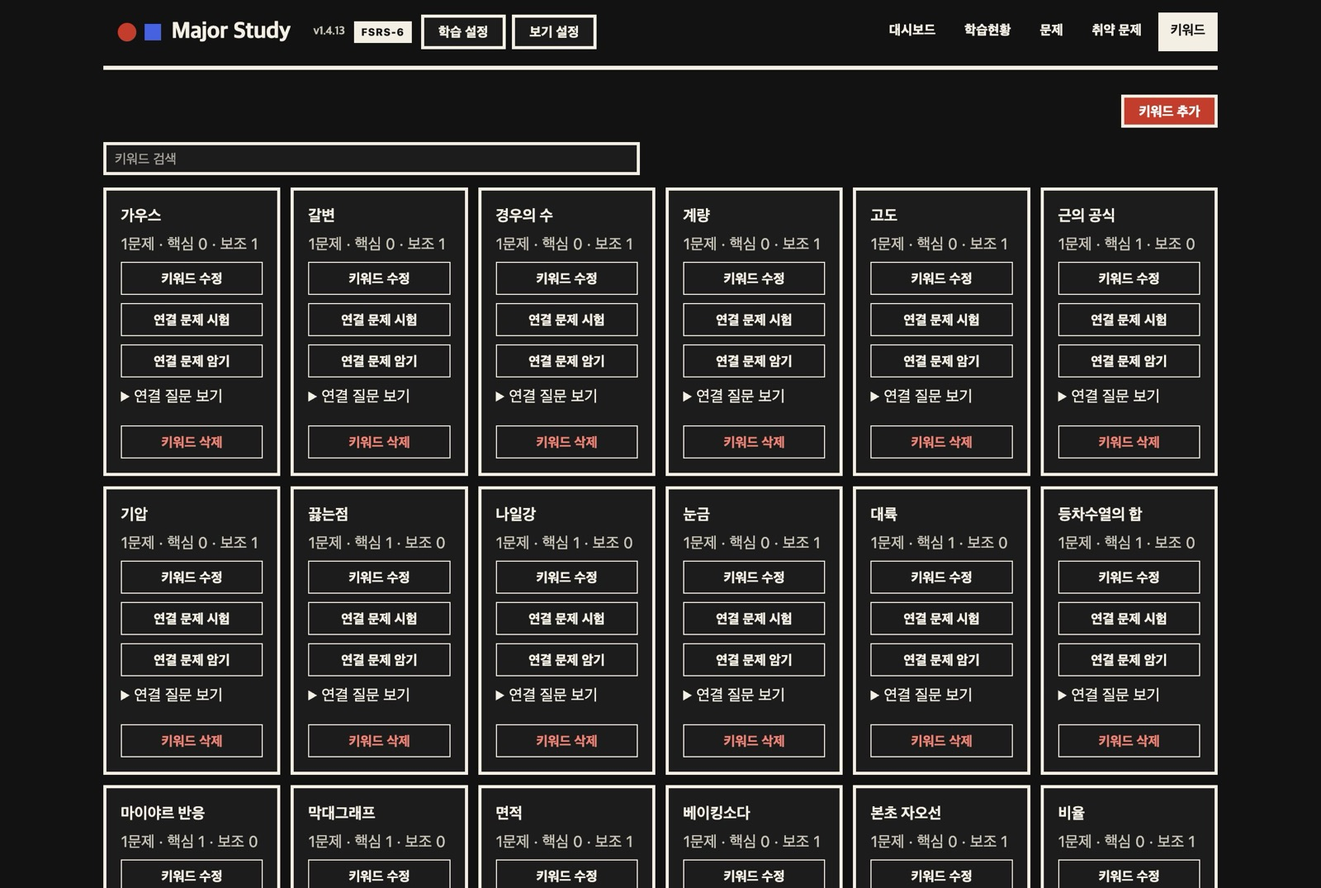
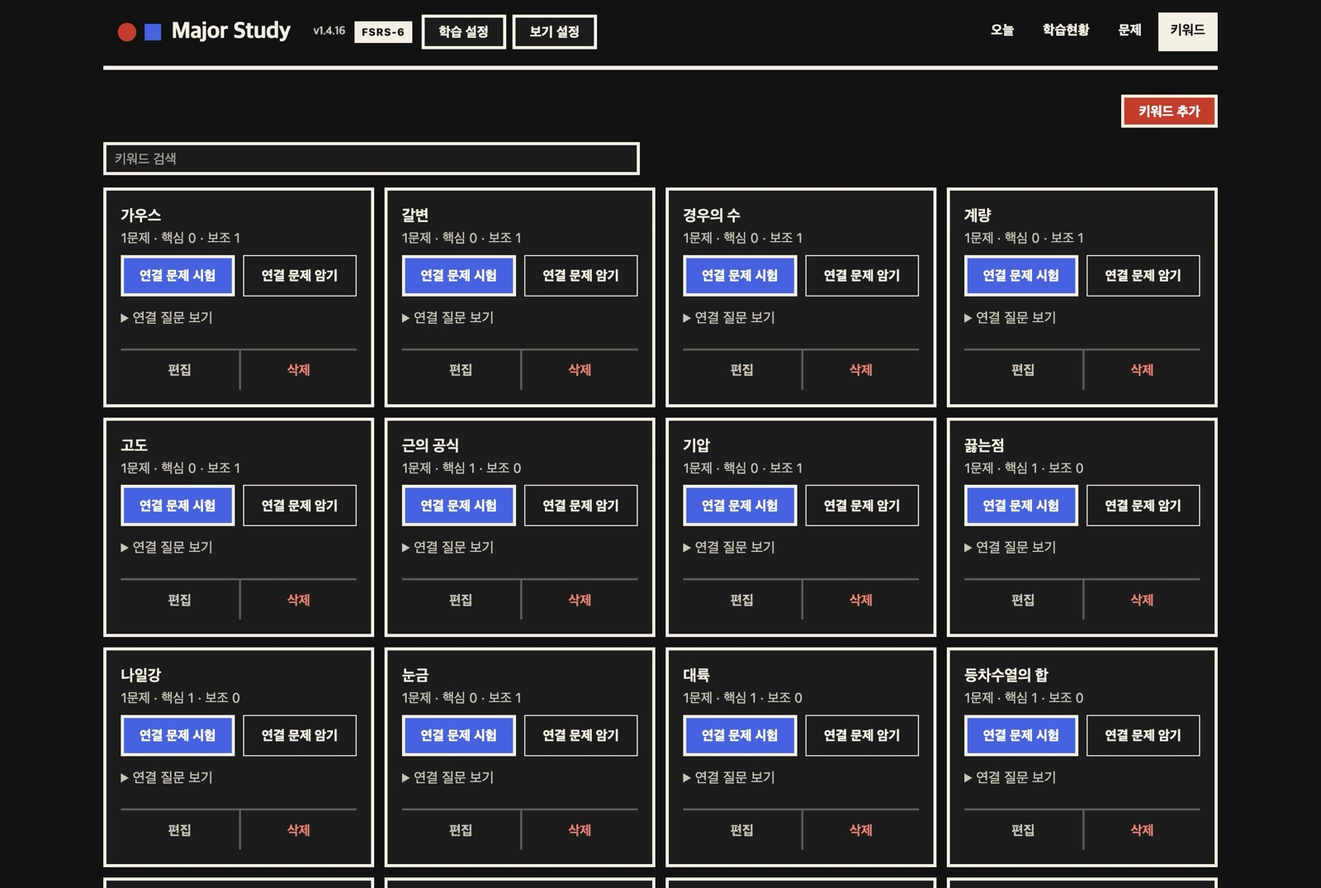
release: MIA Study 1.4.16
Re-layout of the tabs (오늘, 학습현황, 문제, 키워드), the question list with
a side detail panel, and the study screen. Homepage screenshots and docs are
updated for the new layout. main.js and styles.css change; storage format and
algorithm are unchanged.

Changed region(s): [[0.0625, 0.2149, 0.9375, 1.0], [0.6875, 0.0307, 0.8438, 0.0614], [0.2812, 0.0307, 0.4375, 0.0614]]

diff --git a/docs/index.html b/docs/index.html
@@ -5,9 +5,9 @@
 <meta name="viewport" content="width=device-width,initial-scale=1">
 <meta name="color-scheme" content="light dark">
 <title>MIA Study · Obsidian 전공 공부 플러그인</title>
-<meta name="description" content="Obsidian 안에서 전공 질문을 모으고, 키워드로 연결하고, FSRS-6로 복습하는 플러그인. 정식 1.4.15 다운로드와 설치 안내.">
+<meta name="description" content="Obsidian 안에서 전공 질문을 모으고, 키워드로 연결하고, FSRS-6로 복습하는 플러그인. 정식 1.4.16 다운로드와 설치 안내.">
 <meta property="og:title" content="MIA Study · Obsidian 전공 공부 플러그인">
-<meta property="og:description" content="질문·키워드·FSRS-6 복습을 Obsidian 안에서. 정식 1.4.15.">
+<meta property="og:description" content="질문·키워드·FSRS-6 복습을 Obsidian 안에서. 정식 1.4.16.">
 <meta property="og:image" content="https://kimchi-kang.github.io/mia-study-obsidian/assets/screens/desktop-dashboard.jpg">
 <meta property="og:type" content="website">
 <link rel="preconnect" href="https://fonts.googleapis.com">
@@ -279,11 +279,11 @@ footer .fm .t{background:var(--yellow);clip-path:polygon(50% 0,100% 100%,0 100%)
   <div class="wrap">
     <div class="hero-grid">
       <div>
-        <span class="ver">정식 1.4.15</span>
+        <span class="ver">정식 1.4.16</span>
         <h1>질문을 모으고,<br><em>잊기 전에</em><br>다시 꺼낸다.</h1>
         <p class="lead">Obsidian 안에서 과목·질문·키워드를 폼으로 관리하고, FSRS-6로 복습 시점을 잡아 주는 공부 플러그인. Markdown을 직접 쓰지 않아도 되고, 문제마다 노트를 만들지도 않습니다. 1.4.13부터 플러그인 화면도 이 페이지와 같은 바우하우스 스타일(빨강·노랑·파랑, 두꺼운 테두리, 각진 모서리)입니다.</p>
         <div class="cta">
-          <a class="btn btn-red" href="https://github.com/kimchi-kang/mia-study-obsidian/releases/download/1.4.15/mia-study-1.4.15.zip" download>↓ 1.4.15 다운로드</a>
+          <a class="btn btn-red" href="https://github.com/kimchi-kang/mia-study-obsidian/releases/download/1.4.16/mia-study-1.4.16.zip" download>↓ 1.4.16 다운로드</a>
           <a class="btn btn-line" href="#install">BRAT 설치</a>
         </div>
         <p class="meta"><span>무료 · MIT</span><span>데스크톱·모바일</span><span>Obsidian 1.8.7+</span></p>
@@ -298,7 +298,7 @@ footer .fm .t{background:var(--yellow);clip-path:polygon(50% 0,100% 100%,0 100%)
       </div>
     </div>
     <figure class="frame hero-shot">
-      <img src="assets/screens/desktop-dashboard.jpg" width="1600" height="1075" alt="바우하우스 스타일의 MIA Study 대시보드. 파란 복습 6개·노란 새 문제 6개 타일과 빨간 시험 모드 시작 버튼, 이어하기 카드, 등록 문제 13개·기억 안정 비율·오늘 평가 통계 타일, 과목별 학습 카드가 보인다.">
+      <img src="assets/screens/desktop-dashboard.jpg" width="1600" height="1075" alt="바우하우스 스타일의 MIA Study 오늘 화면. 큰 파란 복습 블록과 노란 새 문제 블록, 빨간 시험 모드 시작 버튼·전체 암기 모드·기록 새로고침이 있는 시작 패널, 이어하기 카드, 등록 문제 13개 등 통계 타일, 취약 문제 띠가 보인다.">
     </figure>
   </div>
 </div>
@@ -309,7 +309,7 @@ footer .fm .t{background:var(--yellow);clip-path:polygon(50% 0,100% 100%,0 100%)
     <div class="steps">
       <div class="step"><span class="n">1</span><h3>과목 추가</h3><p>리본의 뇌 아이콘이나 명령 팔레트의 <code>MIA Study 열기</code>로 시작해 과목을 만듭니다. 과목 폴더와 문제은행 노트가 자동으로 생깁니다.</p></div>
       <div class="step"><span class="n">2</span><h3>질문 추가</h3><p>과목·질문·정답·유형과 핵심·보조 키워드, 각 키워드의 의미를 폼에 입력합니다. 키워드 의미 노트도 함께 만들어집니다.</p></div>
-      <div class="step"><span class="n">3</span><h3>시험 시작</h3><p>대시보드의 <strong>시험 모드 시작</strong>을 누르면 오늘 복습할 문제와 새 문제가 나옵니다. 평가할 때마다 다음 복습일이 정해집니다.</p></div>
+      <div class="step"><span class="n">3</span><h3>시험 시작</h3><p><strong>오늘</strong> 화면의 <strong>시험 모드 시작</strong>을 누르면 오늘 복습할 문제와 새 문제가 나옵니다. 평가할 때마다 다음 복습일이 정해집니다.</p></div>
     </div>
     <p class="defaults">기본값: 하루 새 문제 20개 · 복습 200회 · 하루 시작 오전 4시 · 학습 단계 1분 → 10분 · 목표 기억률 90%</p>
   </div>
@@ -338,7 +338,7 @@ footer .fm .t{background:var(--yellow);clip-path:polygon(50% 0,100% 100%,0 100%)
         </ul>
         <p class="keys">Space 정답 · 1–4 평가 · ← → 이동 · U 직전 평가 취소</p>
       </div>
-      <figure class="frame"><img src="assets/screens/desktop-study.jpg" width="1600" height="1075" loading="lazy" alt="시험 모드 학습 화면. 시차 계산 질문 아래 분수 수식이 렌더링된 모범 답안과 빨강·노랑·흰색·파랑의 못 암기·애매·암기·너무 쉬움 평가 버튼이 보인다."></figure>
+      <figure class="frame"><img src="assets/screens/desktop-study.jpg" width="1600" height="1075" loading="lazy" alt="시험 모드 학습 화면. 시차 계산 질문 아래 분수 수식이 렌더링된 모범 답안과, 1–4 키 표시와 다음 간격이 붙은 빨강·노랑·흰색·파랑의 큰 평가 버튼이 보인다."></figure>
     </div>
 
     <div class="feat flip">
@@ -367,7 +367,7 @@ footer .fm .t{background:var(--yellow);clip-path:polygon(50% 0,100% 100%,0 100%)
           <li>질문마다 상세·편집·연결·삭제</li>
         </ul>
       </div>
-      <figure class="frame"><img src="assets/screens/desktop-questions.jpg" width="1600" height="1075" loading="lazy" alt="문제 목록 화면. 수학 기초·요리 과학 예시 질문 13개와 검색창, 과목·유형·상태 필터, 질문마다 학습·상세·편집·연결·삭제 버튼이 보인다."></figure>
+      <figure class="frame"><img src="assets/screens/desktop-questions.jpg" width="1600" height="1075" loading="lazy" alt="문제 목록 화면. 전체 13·오늘 복습 2·학습 전 10·▲ 취약 상태 칩과 검색창·필터, 질문마다 학습·상세·편집·연결 열과 빨간 삭제 글자, 오른쪽 상세 패널 영역이 보인다."></figure>
     </div>
 
     <div class="feat flip">
@@ -381,7 +381,7 @@ footer .fm .t{background:var(--yellow);clip-path:polygon(50% 0,100% 100%,0 100%)
           <li>학습 중 키워드·과목·유형·최근 평가로 관련 문제를 추천해 이어서 출제</li>
         </ul>
       </div>
-      <figure class="frame"><img src="assets/screens/desktop-keywords.jpg" width="1600" height="1075" loading="lazy" alt="키워드 화면. 가우스, 갈변, 경우의 수, 근의 공식, 끓는점, 마이야르 반응 같은 예시 키워드 카드마다 연결 문제 수와 키워드 수정·연결 문제 시험·암기·키워드 삭제 버튼이 보인다."></figure>
+      <figure class="frame"><img src="assets/screens/desktop-keywords.jpg" width="1600" height="1075" loading="lazy" alt="키워드 화면. 가우스, 갈변, 경우의 수, 계량, 고도, 근의 공식 같은 예시 키워드 카드마다 연결 문제 수와 연결 문제 시험·암기·편집·삭제 버튼이 보인다."></figure>
     </div>
 
     <div class="feat">
@@ -391,7 +391,7 @@ footer .fm .t{background:var(--yellow);clip-path:polygon(50% 0,100% 100%,0 100%)
         <p>전체·과목별로 학습 전, 오늘 복습, 기억 안정, 오늘 평가를 한눈에 보고, 숫자를 누르면 해당 문제만 모아 봅니다.</p>
         <ul class="pts">
           <li>최근 평가 분포를 네 가지 색 막대로 표시</li>
-          <li>취약 문제: 못 암기·애매 문제를 복습 지연 시간까지 반영한 긴급도 순으로 정렬해 바로 시험</li>
+          <li>취약 문제: 오늘 화면의 취약 띠와 문제 탭의 "▲ 취약" 필터에서 못 암기·애매 문제를 복습 지연 시간까지 반영한 긴급도 순으로 정렬해 바로 시험</li>
           <li>시험이 끝나면 평가별 개수·건너뜀·소요 시간 요약</li>
         </ul>
       </div>
@@ -402,7 +402,7 @@ footer .fm .t{background:var(--yellow);clip-path:polygon(50% 0,100% 100%,0 100%)
     <div class="more">
       <div><span class="dot c" aria-hidden="true"></span><h3>시험 모드 · 암기 모드</h3><p>시험은 정답을 가리고 상한·순서를 따릅니다. 암기는 정답을 처음부터 보여 주고 순서대로·랜덤을 고릅니다.</p></div>
       <div><span class="dot s" aria-hidden="true"></span><h3>직전 평가 취소</h3><p>잘못 누른 평가를 그 직전의 복습 상태와 학습 순서까지 그대로 되돌립니다.</p></div>
-      <div><span class="dot t" aria-hidden="true"></span><h3>이어하기</h3><p>마지막으로 본 위치를 저장해 대시보드에서 바로 이어갑니다.</p></div>
+      <div><span class="dot t" aria-hidden="true"></span><h3>이어하기</h3><p>마지막으로 본 위치를 저장해 오늘 화면에서 바로 이어갑니다.</p></div>
       <div><span class="dot c" aria-hidden="true"></span><h3>Anki 스타일 학습 설정</h3><p>하루 새 문제·복습 상한, 학습·재학습 단계, 목표 기억률, 출제 순서, 평가 버튼별 고정 간격을 간편·고급 화면에서 조정합니다.</p></div>
       <div><span class="dot s" aria-hidden="true"></span><h3>꼬리질문 연결</h3><p>기존 문제를 검색해 최대 50개까지 단방향·양방향으로 연결합니다.</p></div>
       <div><span class="dot t" aria-hidden="true"></span><h3>과목별 Word 정리본</h3><p>과목의 질문·답변 전체를 A4 서식의 .docx로 출력합니다. 표·목록·코드·보관함 이미지를 포함하고 수식은 LaTeX 표기로 보존합니다.</p></div>
@@ -424,7 +424,7 @@ footer .fm .t{background:var(--yellow);clip-path:polygon(50% 0,100% 100%,0 100%)
           <p class="honest">데스크톱 Obsidian에서 휴대폰 폭(390px)으로 찍은 화면입니다. 실제 휴대폰 캡처가 아닙니다.</p>
         </div>
         <div class="phones">
-          <figure class="phone"><img src="assets/screens/mobile-dashboard.jpg" width="780" height="1688" loading="lazy" alt="390픽셀 폭 어두운 테마의 대시보드. 파란 복습 6개·노란 새 문제 6개 타일, 시험 모드 시작 버튼, 이어하기 카드가 보인다."></figure>
+          <figure class="phone"><img src="assets/screens/mobile-dashboard.jpg" width="780" height="1688" loading="lazy" alt="390픽셀 폭 어두운 테마의 오늘 화면. 파란 복습·노란 새 문제 타일, 시험 모드 시작 버튼, 이어하기 카드와 아래쪽 탭 바(오늘·학습현황·문제·키워드)가 보인다."></figure>
           <figure class="phone"><img src="assets/screens/mobile-study.jpg" width="780" height="1688" loading="lazy" alt="390픽셀 폭 학습 화면. 수식이 렌더링된 모범 답안 아래에 빨강·노랑·흰색·파랑 평가 버튼 네 개가 2×2로 배치되어 있다."></figure>
         </div>
       </div>
@@ -483,11 +483,11 @@ footer .fm .t{background:var(--yellow);clip-path:polygon(50% 0,100% 100%,0 100%)
         <h3>ZIP 직접 설치</h3>
         <ol>
           <li>보관함을 백업하고 Obsidian을 닫습니다.</li>
-          <li><a href="https://github.com/kimchi-kang/mia-study-obsidian/releases/download/1.4.15/mia-study-1.4.15.zip">ZIP</a>의 <code>main.js</code> <code>styles.css</code> <code>manifest.json</code> 세 파일을 아래 폴더에 복사합니다.<code class="blk">.obsidian/<wbr>plugins/<wbr>mia-study/</code></li>
+          <li><a href="https://github.com/kimchi-kang/mia-study-obsidian/releases/download/1.4.16/mia-study-1.4.16.zip">ZIP</a>의 <code>main.js</code> <code>styles.css</code> <code>manifest.json</code> 세 파일을 아래 폴더에 복사합니다.<code class="blk">.obsidian/<wbr>plugins/<wbr>mia-study/</code></li>
           <li><code>data.json</code>, <code>ui-state.json</code>은 그대로 둡니다. 학습 기록이 여기 있습니다.</li>
           <li>Obsidian을 다시 엽니다.</li>
         </ol>
-        <p class="links"><a href="https://github.com/kimchi-kang/mia-study-obsidian/releases/download/1.4.15/SHA256SUMS">SHA256SUMS</a> · <a href="https://github.com/kimchi-kang/mia-study-obsidian/blob/main/INSTALL.md">INSTALL.md</a></p>
+        <p class="links"><a href="https://github.com/kimchi-kang/mia-study-obsidian/releases/download/1.4.16/SHA256SUMS">SHA256SUMS</a> · <a href="https://github.com/kimchi-kang/mia-study-obsidian/blob/main/INSTALL.md">INSTALL.md</a></p>
       </div>
     </div>
   </div>
@@ -498,17 +498,17 @@ footer .fm .t{background:var(--yellow);clip-path:polygon(50% 0,100% 100%,0 100%)
     <div class="sh"><span class="shape c" aria-hidden="true"></span><h2>최신 업데이트</h2><span class="num">06</span></div>
     <div class="upd">
       <div class="l">
-        <div class="big">1.4.15</div>
-        <p>2026년 11월 11일</p>
-        <p><a href="https://github.com/kimchi-kang/mia-study-obsidian/releases/tag/1.4.15">릴리스 노트 →</a></p>
+        <div class="big">1.4.16</div>
+        <p>2026년 11월 12일</p>
+        <p><a href="https://github.com/kimchi-kang/mia-study-obsidian/releases/tag/1.4.16">릴리스 노트 →</a></p>
       </div>
       <div class="r">
-        <h3>초기화 확인과 상세 창 버튼 정리</h3>
+        <h3>탭 4개로 줄인 새 화면 배치</h3>
         <ul>
-          <li>질문 상세 창의 "학습 전으로 초기화"가 실행 전에 기록 수를 보여 주고 되돌릴 수 없다고 안내하며 취소/초기화를 묻습니다.</li>
-          <li>평가 버튼에 색 막대, 초기화는 작은 빨간 글자 버튼, 삭제는 따로 분리. 휴대폰에서는 44px 터치 영역.</li>
+          <li>탭은 오늘 · 학습현황 · 문제 · 키워드. 취약 문제는 오늘의 취약 띠와 문제의 "▲ 취약" 필터로 옮겼습니다.</li>
+          <li>문제 목록은 열을 맞추고, 넓은 화면에서는 오른쪽 상세 패널로 엽니다. 학습 화면은 큰 색 평가 버튼과 키 안내, 휴대폰은 하단 탭 바와 44px 터치 영역.</li>
         </ul>
-        <p style="margin:0 0 12px"><a href="https://github.com/kimchi-kang/mia-study-obsidian/releases/tag/1.4.14">1.4.14</a>: 과목·학습현황·키워드 카드의 버튼과 숫자를 한눈에 보이도록 정리.</p>
+        <p style="margin:0 0 12px"><a href="https://github.com/kimchi-kang/mia-study-obsidian/releases/tag/1.4.15">1.4.15</a>: 질문 상세 창의 초기화 확인과 버튼 정리.</p>
         <a href="https://github.com/kimchi-kang/mia-study-obsidian/blob/main/docs/releases/HISTORY.md">전체 변경 이력 →</a>
       </div>
     </div>
@@ -519,7 +519,7 @@ footer .fm .t{background:var(--yellow);clip-path:polygon(50% 0,100% 100%,0 100%)
   <div class="wrap">
     <div class="sh"><span class="shape s" aria-hidden="true"></span><h2>검증</h2><span class="num">07</span></div>
     <div class="verify">
-      <div class="v"><span class="lab ok">통과</span><b>1,686개</b><p>1.4.15 자동 검사 실패·생략 0, 타입 검사·배포 빌드 통과.</p></div>
+      <div class="v"><span class="lab ok">통과</span><b>1,712개</b><p>1.4.16 자동 검사 실패·생략 0, 타입 검사·배포 빌드 통과.</p></div>
       <div class="v"><span class="lab ok">확인</span><b>데스크톱 앱</b><p>macOS Obsidian에서 모든 탭과 시험·암기, 평가·취소, 재시작을 확인했습니다.</p></div>
       <div class="v"><span class="lab no">미검증</span><b>휴대폰 실기기</b><p>iOS·Android 실기기, OS 키보드, 두 기기 실시간 동기화는 직접 확인하지 않았습니다.</p></div>
     </div>
@@ -545,7 +545,7 @@ footer .fm .t{background:var(--yellow);clip-path:polygon(50% 0,100% 100%,0 100%)
 <footer>
   <div class="wrap">
     <span class="fm" aria-hidden="true"><i class="c"></i><i class="s"></i><i class="t"></i></span>
-    <span>MIA Study 1.4.15 · <a href="https://github.com/kimchi-kang/mia-study-obsidian/blob/main/LICENSE">MIT</a> · 복습 일정: <a href="https://github.com/open-spaced-repetition/ts-fsrs">ts-fsrs</a>(FSRS-6)</span>
+    <span>MIA Study 1.4.16 · <a href="https://github.com/kimchi-kang/mia-study-obsidian/blob/main/LICENSE">MIT</a> · 복습 일정: <a href="https://github.com/open-spaced-repetition/ts-fsrs">ts-fsrs</a>(FSRS-6)</span>
     <span><a href="https://github.com/kimchi-kang/mia-study-obsidian">GitHub</a> · <a href="https://github.com/kimchi-kang/mia-study-obsidian/issues">문제 신고</a> · <a href="https://github.com/kimchi-kang/mia-study-obsidian/releases">릴리스</a></span>
   </div>
 </footer>

diff --git a/README.md b/README.md
@@ -10,9 +10,9 @@
 ![Platforms](https://img.shields.io/badge/desktop%20%C2%B7%20mobile-supported-2f9e5b)
 [![License](https://img.shields.io/github/license/kimchi-kang/mia-study-obsidian?color=555)](LICENSE)
 
-[**소개 페이지**](https://kimchi-kang.github.io/mia-study-obsidian/) · [**1.4.15 다운로드**](https://github.com/kimchi-kang/mia-study-obsidian/releases/download/1.4.15/mia-study-1.4.15.zip) · [변경 내역](docs/releases/1.4.15.md) · [현재 상태](STATUS.md)
+[**소개 페이지**](https://kimchi-kang.github.io/mia-study-obsidian/) · [**1.4.16 다운로드**](https://github.com/kimchi-kang/mia-study-obsidian/releases/download/1.4.16/mia-study-1.4.16.zip) · [변경 내역](docs/releases/1.4.16.md) · [현재 상태](STATUS.md)
 
-<img src="docs/assets/screens/desktop-dashboard.jpg" alt="MIA Study 대시보드. 1.4.13 바우하우스 디자인의 오늘 복습·새 문제 타일과 과목별 학습 카드" width="860">
+<img src="docs/assets/screens/desktop-dashboard.jpg" alt="MIA Study 오늘 화면. 바우하우스 디자인의 복습·새 문제 블록, 시작 패널, 취약 문제 띠와 과목별 학습 카드" width="860">
 
 </div>
 
@@ -26,7 +26,7 @@ Obsidian 안에서 과목·질문·키워드를 폼으로 관리하면서 FSRS-6
 
 화면은 1.4.13 바우하우스 디자인(빨강·노랑·파랑, 두꺼운 테두리, 각진 모서리)과 직접 만든 일반 상식 데모 보관함(수학 기초·세계 지리·요리 과학)으로 찍었습니다. 수식·이미지·표·코드 렌더링을 보여 주는 예시 질문이며 실제 학습 내용이 아닙니다. 모바일 화면은 데스크톱 Obsidian에서 휴대폰 폭을 흉내 낸 것입니다.
 
-[1.4.15 정식 릴리스](https://github.com/kimchi-kang/mia-study-obsidian/releases/tag/1.4.15) · [다운로드·설치 안내](https://kimchi-kang.github.io/mia-study-obsidian/) · [현재 상태](STATUS.md) · [1.4.15 변경 내역](docs/releases/1.4.15.md) · [이전 버전 이력](docs/releases/HISTORY.md)
+[1.4.16 정식 릴리스](https://github.com/kimchi-kang/mia-study-obsidian/releases/tag/1.4.16) · [다운로드·설치 안내](https://kimchi-kang.github.io/mia-study-obsidian/) · [현재 상태](STATUS.md) · [1.4.16 변경 내역](docs/releases/1.4.16.md) · [이전 버전 이력](docs/releases/HISTORY.md)
 
 Major Study 제목 바로 옆에서 현재 실행 중인 버전을 확인할 수 있습니다. 업데이트한 파일을 로드하려면 Obsidian을 다시 시작하세요. 수식은 원문에 `$...$` 또는 `$$...$$` 구분자와 TeX 문법이 있어야 표시됩니다. 예를 들어 `vC(t) = Vs(1 - e^(-t/RC))` 같은 일반 문장은 자동으로 수식으로 바뀌지 않습니다.
 
@@ -50,8 +50,8 @@ Major Study 제목 바로 옆에서 현재 실행 중인 버전을 확인할 수
 3. `질문 추가`에서 과목, 질문, 정답, 유형, 핵심·보조 키워드와 각 의미를 입력한다. 꼬리질문은 과목·제목·질문 내용으로 검색해 최대 50개까지 선택할 수 있다.
 4. `학습현황`에서 전체·학습 전·기억 안정·오늘 평가·오늘 복습·최근 평가와 과목별 상태를 확인한다. 숫자를 누르면 해당 문제만 모아 볼 수 있다.
 5. 문제 화면에서 질문의 상세 정보·복습 기록을 보거나 질문을 편집·삭제한다. 과목을 바꾸어 저장하면 기존/새 과목의 문제은행과 과목 노트가 함께 갱신된다.
-6. 대시보드의 과목 카드에서 과목 이름을 수정하거나 과목을 삭제하고, 키워드 화면에서 키워드의 이름·의미를 수정하거나 삭제한다.
-7. 대시보드의 `시험 모드 시작`은 정답을 가리고, `전체 암기 모드`는 정답을 처음부터 표시한다. 시험은 상세 학습관리의 상한과 순서를 따르고, 랜덤 암기는 복습 기한이 된 문제를 먼저, 새 문제를 다음에 내며 각 그룹 안에서 무작위로 배치한다. 암기는 MIA 플러그인 설정 또는 `보기 설정`의 `암기 모드 순서`에서 `순서대로` / `랜덤`을 선택한다(기본 랜덤, 기기별 저장). `순서대로`는 현재 문제 목록 순서를 따른다. 아직 복습 기한이 안 된 문제는 제외하며 변경한 설정은 새 학습부터 적용한다.
+6. `오늘` 화면의 과목 카드에서 과목 이름을 수정하거나 과목을 삭제하고, 키워드 화면에서 키워드의 이름·의미를 수정하거나 삭제한다.
+7. `오늘` 화면의 `시험 모드 시작`은 정답을 가리고, `전체 암기 모드`는 정답을 처음부터 표시한다. 시험은 상세 학습관리의 상한과 순서를 따르고, 랜덤 암기는 복습 기한이 된 문제를 먼저, 새 문제를 다음에 내며 각 그룹 안에서 무작위로 배치한다. 암기는 MIA 플러그인 설정 또는 `보기 설정`의 `암기 모드 순서`에서 `순서대로` / `랜덤`을 선택한다(기본 랜덤, 기기별 저장). `순서대로`는 현재 문제 목록 순서를 따른다. 아직 복습 기한이 안 된 문제는 제외하며 변경한 설정은 새 학습부터 적용한다.
 8. 정답을 본 뒤 `못 암기`, `애매`, `암기`, `너무 쉬움` 중 하나를 고른다. `애매`는 정답을 기억했지만 어려웠다는 뜻이다. 떠올리지 못했다면 `못 암기`를 고른다. 시험 모드의 일일 상한은 상세 학습관리에서 조정한다.
 9. 학습·재학습 중인 문제는 예정 시각이 되면 같은 세션에서 다시 출제된다. 다른 문제가 없으면 다음 복습 시각까지 대기하고 자동으로 재개한다. 다음날 이후의 정규 복습은 Anki처럼 **기한일 단위**로 출제한다. 하루 시작 시각(기본 04:00)부터 그날이 기한인 복습은 예약 시각 전이라도 출제하므로, 매일 비슷한 시간에 공부해도 복습이 하루씩 밀리지 않는다. 1분·10분 같은 학습 단계와 하루 미만의 고정 간격은 정확한 시각을 따른다.
 10. 화면 왼쪽 가장자리에서 중앙 방향으로 쓸면 학습을 시작한 화면으로 돌아간다. 이어하기로 같은 위치를 복원할 수 있다. 제스처로 문제를 넘기지 않으며 이전·다음 버튼을 사용한다. `보기 설정`에서 뒤로가기 제스처와 민감도를 조정할 수 있다.
@@ -61,7 +61,7 @@ Major Study 제목 바로 옆에서 현재 실행 중인 버전을 확인할 수
 
 추가 기능:
 
-- `취약 문제`: 못 암기·애매 문제를 복습 지연 시간이 포함된 긴급도 순으로 검색하고 바로 시험한다.
+- 취약 문제: `오늘` 화면의 취약 문제 띠(`취약 문제 시험` / `목록 보기`)와 `문제` 탭의 `▲ 취약` 필터에서 못 암기·애매 문제를 복습 지연 시간이 포함된 긴급도 순으로 보고 바로 시험한다.
 - `연결`: 질문을 검색·과목 필터로 최대 50개까지 선택하며 단방향 또는 양방향으로 연결한다.
 - 자동 추천: 키워드·과목·질문 유형·최근 평가를 바탕으로 5점 이상인 관련 질문을 현재 시험에 추가한다.
 - 질문 목록: 생성·수정일, 취약도, 애매 우선 정렬과 필터 칩, 한글 조합 검색, 50개 단위 페이지를 지원한다.
@@ -97,7 +97,7 @@ MIA 첫 화면의 `학습 설정` 또는 Obsidian 설정 → MIA Study에서 하
 
 ## 과목별 질문·답변 Word 정리본 출력
 
-MIA 대시보드의 **출력**을 누르면 과목 선택창이 열린다. 과목을 클릭하면 해당 과목의 등록된 모든 질문과 답변을 원본 파일·문제 순서대로 정리한 **Word(.docx)** 파일을 PC에서는 운영체제의 **다운로드 폴더**에 저장한다. 모바일에서는 보관함의 `MIA 출력/` 폴더에 저장한다. 질문 목록의 검색·복습 필터와 관계없이 선택한 과목 전체를 출력한다. 명령 팔레트의 `MIA Study: 과목 질문 답변 Word로 출력`으로도 실행할 수 있다.
+MIA `오늘` 화면의 **출력**을 누르면 과목 선택창이 열린다. 과목을 클릭하면 해당 과목의 등록된 모든 질문과 답변을 원본 파일·문제 순서대로 정리한 **Word(.docx)** 파일을 PC에서는 운영체제의 **다운로드 폴더**에 저장한다. 모바일에서는 보관함의 `MIA 출력/` 폴더에 저장한다. 질문 목록의 검색·복습 필터와 관계없이 선택한 과목 전체를 출력한다. 명령 팔레트의 `MIA Study: 과목 질문 답변 Word로 출력`으로도 실행할 수 있다.
 
 - 과목 제목 아래 `질문 1 → 답변 → 질문 2 → 답변` 순서로 정리한다. 중복된 문제 제목, 문제 ID, 학습 정보, 별도 `원문:` 출처 링크는 넣지 않는다.
 - A4 여백과 흑백 글자 스타일을 적용한다. 글자 강조·목록·표·코드와 보관함 안의 PNG·JPG·GIF·BMP 이미지를 포함한다. 일반 링크는 표시 문구만 남긴다.

diff --git a/STATUS.md b/STATUS.md
@@ -1,6 +1,8 @@
 # MIA Study 현재 작업·검증·배포 상태
 
-2026-11-11 KST. **현재 정식 배포는 1.4.15**입니다. 질문 상세 창의 `학습 전으로 초기화`가 실행 전에 확인 창(기록 수 표시, 되돌릴 수 없음 안내, 취소/초기화)을 띄우고, 상세 창 버튼을 정리했습니다(저장 형식·알고리즘 변경 없음, `main.js`·`styles.css` 변경). 전체 1,686개(실패·생략 0), 타입 검사·빌드 통과. 예시 문제로 만든 격리 보관함에서 데스크톱 Obsidian의 밝은·어두운 테마와 휴대폰 폭(390px)을 확인했습니다. **모바일 실기기와 두 기기 동기화는 미검증입니다.** [정식 릴리스](https://github.com/kimchi-kang/mia-study-obsidian/releases/tag/1.4.15) · [변경 내역](docs/releases/1.4.15.md) · [1.4.15 SHA256SUMS](https://github.com/kimchi-kang/mia-study-obsidian/releases/download/1.4.15/SHA256SUMS)
+2026-11-12 KST. **현재 정식 배포는 1.4.16**입니다. 화면 배치를 새로 짰습니다(레이아웃만 변경, 저장 형식·알고리즘 변경 없음, `main.js`·`styles.css` 변경). 탭은 `오늘`·`학습현황`·`문제`·`키워드` 4개이고 `취약 문제`는 `오늘`의 취약 띠와 `문제`의 `▲ 취약` 필터로 옮겼습니다. 문제 목록에 오른쪽 상세 패널, 학습 화면에 큰 평가 버튼, 휴대폰에 하단 탭 바를 넣었습니다. 전체 1,712개(실패·생략 0), 타입 검사·빌드 통과. 예시 문제로 만든 격리 보관함에서 데스크톱 Obsidian의 밝은·어두운 테마를 여러 폭으로, 휴대폰 폭(390px)을 확인했습니다. **모바일 실기기와 두 기기 동기화는 미검증입니다(휴대폰 전체 화면 상세는 CSS 대용으로만 확인).** [정식 릴리스](https://github.com/kimchi-kang/mia-study-obsidian/releases/tag/1.4.16) · [변경 내역](docs/releases/1.4.16.md) · [1.4.16 SHA256SUMS](https://github.com/kimchi-kang/mia-study-obsidian/releases/download/1.4.16/SHA256SUMS)
+
+2026-11-11 KST. **당시 정식 배포 1.4.15**입니다. 질문 상세 창의 `학습 전으로 초기화`가 실행 전에 확인 창(기록 수 표시, 되돌릴 수 없음 안내, 취소/초기화)을 띄우고, 상세 창 버튼을 정리했습니다(저장 형식·알고리즘 변경 없음, `main.js`·`styles.css` 변경). 전체 1,686개(실패·생략 0), 타입 검사·빌드 통과. 예시 문제로 만든 격리 보관함에서 데스크톱 Obsidian의 밝은·어두운 테마와 휴대폰 폭(390px)을 확인했습니다. **모바일 실기기와 두 기기 동기화는 미검증입니다.** [정식 릴리스](https://github.com/kimchi-kang/mia-study-obsidian/releases/tag/1.4.15) · [변경 내역](docs/releases/1.4.15.md) · [1.4.15 SHA256SUMS](https://github.com/kimchi-kang/mia-study-obsidian/releases/download/1.4.15/SHA256SUMS)
 
 2026-11-11 KST. **당시 정식 배포 1.4.14**입니다. 과목 카드·학습현황 과목 카드·키워드 카드의 버튼과 숫자를 한눈에 보이도록 정리했습니다(버튼은 그대로, `styles.css`만 변경, 저장 형식 변경 없음). 전체 1,685개(실패·생략 0), 타입 검사·빌드 통과. 예시 문제로 만든 격리 보관함에서 데스크톱 Obsidian의 밝은·어두운 테마와 휴대폰 폭(390px)을 확인하고 시험·이름 수정·연결 질문 보기·복습 시작 버튼을 눌러 보았습니다. **모바일 실기기와 두 기기 동기화는 미검증입니다.** [정식 릴리스](https://github.com/kimchi-kang/mia-study-obsidian/releases/tag/1.4.14) · [변경 내역](docs/releases/1.4.14.md) · [1.4.14 SHA256SUMS](https://github.com/kimchi-kang/mia-study-obsidian/releases/download/1.4.14/SHA256SUMS)
 

diff --git a/INSTALL.md b/INSTALL.md
@@ -4,7 +4,7 @@ Obsidian 1.8.7 이상을 대상으로 하며 데스크톱과 모바일을 지원
 
 ## 현재 정식 배포 · 2026-11-11
 
-정식 설치 버전은 **1.4.15**입니다. 질문 상세 창의 `학습 전으로 초기화`가 실행 전에 확인을 받고 상세 창 버튼 배치를 정리했으며(저장 형식 변경 없음, `main.js`·`styles.css` 변경), 1.4.14의 카드 버튼 정리와 과목 카드·학습현황 과목 카드·키워드 카드의 버튼과 숫자를 한눈에 보이도록 정리했고(버튼은 그대로, `styles.css`만 변경), 1.4.13의 바우하우스 스타일 새 디자인과 1.4.12의 동기화 충돌 복사본·부분 동기화 경고, 1.4.11의 고정 간격 기한일 수정을 포함합니다. 자동 검사와 격리 보관함의 데스크톱 Obsidian 화면으로 확인했으며 모바일 실기기에서는 확인하지 않았습니다. 수동 설치 시 같은 빌드의 세 배포 파일을 함께 사용하세요. [정식 다운로드](https://github.com/kimchi-kang/mia-study-obsidian/releases/tag/1.4.15) · [변경 내역](docs/releases/1.4.15.md) · [1.4.14 변경 내역](docs/releases/1.4.14.md) · [1.4.13 변경 내역](docs/releases/1.4.13.md) · [1.4.12 변경 내역](docs/releases/1.4.12.md) · [1.4.11 변경 내역](docs/releases/1.4.11.md) · [1.4.10 변경 내역](docs/releases/1.4.10.md) · [1.4.9 변경 내역](docs/releases/1.4.9.md) · [1.4.8 변경 내역](docs/releases/1.4.8.md) · [1.4.6 변경 내역](docs/releases/1.4.6.md) · [1.4.5 변경 내역](docs/releases/1.4.5.md) · [1.4.3 설치 검증과 복구](docs/qa/1.4.3-integration/README.md)
+정식 설치 버전은 **1.4.16**입니다. 화면 배치를 새로 짜서 탭이 `오늘`·`학습현황`·`문제`·`키워드` 4개가 되고(`취약 문제`는 `오늘`의 취약 띠와 `문제`의 `▲ 취약` 필터로 이동), 질문 목록에 오른쪽 상세 패널과 학습 화면의 큰 평가 버튼, 휴대폰 하단 탭 바를 넣었으며(저장 형식 변경 없음, `main.js`·`styles.css` 변경), 1.4.15의 질문 상세 창의 `학습 전으로 초기화`가 실행 전에 확인을 받고 상세 창 버튼 배치를 정리했으며(저장 형식 변경 없음, `main.js`·`styles.css` 변경), 1.4.14의 카드 버튼 정리와 과목 카드·학습현황 과목 카드·키워드 카드의 버튼과 숫자를 한눈에 보이도록 정리했고(버튼은 그대로, `styles.css`만 변경), 1.4.13의 바우하우스 스타일 새 디자인과 1.4.12의 동기화 충돌 복사본·부분 동기화 경고, 1.4.11의 고정 간격 기한일 수정을 포함합니다. 자동 검사와 격리 보관함의 데스크톱 Obsidian 화면으로 확인했으며 모바일 실기기에서는 확인하지 않았습니다. 수동 설치 시 같은 빌드의 세 배포 파일을 함께 사용하세요. [정식 다운로드](https://github.com/kimchi-kang/mia-study-obsidian/releases/tag/1.4.16) · [변경 내역](docs/releases/1.4.16.md) · [1.4.15 변경 내역](docs/releases/1.4.15.md) · [1.4.14 변경 내역](docs/releases/1.4.14.md) · [1.4.13 변경 내역](docs/releases/1.4.13.md) · [1.4.12 변경 내역](docs/releases/1.4.12.md) · [1.4.11 변경 내역](docs/releases/1.4.11.md) · [1.4.10 변경 내역](docs/releases/1.4.10.md) · [1.4.9 변경 내역](docs/releases/1.4.9.md) · [1.4.8 변경 내역](docs/releases/1.4.8.md) · [1.4.6 변경 내역](docs/releases/1.4.6.md) · [1.4.5 변경 내역](docs/releases/1.4.5.md) · [1.4.3 설치 검증과 복구](docs/qa/1.4.3-integration/README.md)
 
 ## 처음 설치
 

diff --git a/docs/releases/1.4.16.md b/docs/releases/1.4.16.md
@@ -1,0 +1,17 @@
+# MIA Study 1.4.16
+
+2026-11-12 정식 배포
+
+**화면 배치를 다시 짰습니다. 탭이 4개로 줄고, 질문 목록은 오른쪽 상세 패널을 쓰며, 학습 화면은 평가 버튼이 커졌습니다. 저장 방식과 학습 알고리즘은 바뀌지 않았습니다.**
+
+- **탭 4개.** `오늘`(이전 `대시보드`) · `학습현황` · `문제` · `키워드`입니다. `취약 문제` 탭은 없앴고 기능은 두 곳으로 옮겼습니다. `오늘`에는 취약 문제 띠(`취약 문제 시험` / `목록 보기`)가, `문제`에는 긴급도 순으로 정렬되는 `▲ 취약` 필터 칩이 있습니다. `오늘`의 `개선 필요`를 누르면 긴급도 순 취약 목록이 열리고, 이 목록은 300개 상한 대신 50개씩 나눠 보여 줍니다.
+- **오늘.** `복습`과 `새 문제` 블록이 커졌고, 시작 패널에 `시험 모드 시작`, `전체 암기 모드`, `기록 새로고침`, `이어하기`가 모였습니다.
+- **문제.** 행이 `학습`·`상세`·`편집`·`연결` 열로 정렬되고 `삭제`는 맨 오른쪽 빨간 글자입니다. 행을 누르면 넓은 화면에서는 오른쪽 패널에, 좁은 화면에서는 대화창에 상세가 열립니다. 상태 칩은 `전체` / `오늘 복습` / `학습 전` / `▲ 취약`입니다.
+- **이름 통일.** `질문 수정`·`문제 편집`·`키워드 수정`은 `편집`, `연결 관리`는 `연결`, `키워드 삭제`는 `삭제`로 바꿨습니다.
+- **학습 화면.** 색이 있는 큰 평가 버튼에 다음 간격과 1–4 키 표시를 붙였고 Space·U 키 안내를 넣었습니다. 넓은 화면에서는 `이어볼 문제`가 오른쪽 열에 놓입니다. 배너의 중복된 `직전 평가 취소` 버튼은 없앴습니다(U 키는 그대로 동작).
+- **휴대폰(640px 이하).** 하단 탭 바(키보드가 열려 있거나 집중 모드에서는 숨김), 44px 터치 영역, 상세 창의 2×2 평가 버튼과 고정 동작 바를 넣었습니다.
+- **고친 점.** `상세`를 빠르게 두 번 눌러도 창이 하나만 열립니다. 패널은 동작 뒤에도 포커스와 스크롤을 유지하고 다른 창의 포커스를 빼앗지 않습니다. 행과 키워드 버튼에 화면 낭독용 이름을 붙였습니다.
+
+`main.js`와 `styles.css`가 바뀌었고 저장 형식과 학습 알고리즘은 바뀌지 않았습니다. 전체 자동 검사 1,712개(실패·생략 0)와 타입 검사·빌드를 통과했습니다. 예시 문제로 만든 격리 보관함에서 데스크톱 Obsidian의 밝은·어두운 테마를 여러 폭으로, 휴대폰 폭(390px)을 확인했습니다. 모바일 실기기에서는 따로 확인하지 않았으며, 휴대폰 전체 화면 상세(`.is-phone`)는 CSS 대용으로만 확인했습니다. [설치와 복구](https://github.com/kimchi-kang/mia-study-obsidian/blob/main/INSTALL.md)
+
+수동 업데이트는 기존 파일을 백업한 뒤 ZIP의 `main.js`, `styles.css`, `manifest.json`을 함께 교체하세요. 기존 학습 기록·설정·이어하기는 보관함에 유지합니다. 최소 Obsidian 버전은 1.8.7입니다.
